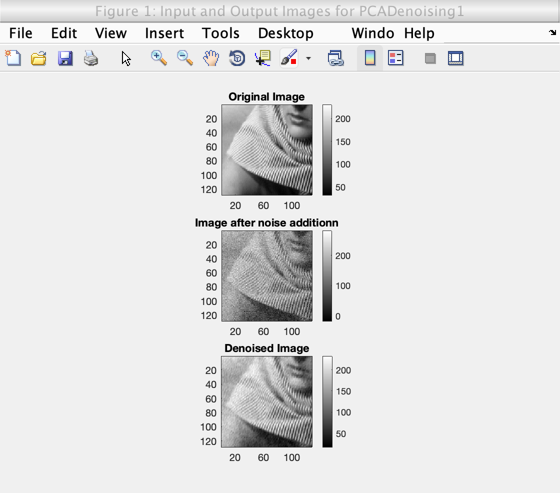
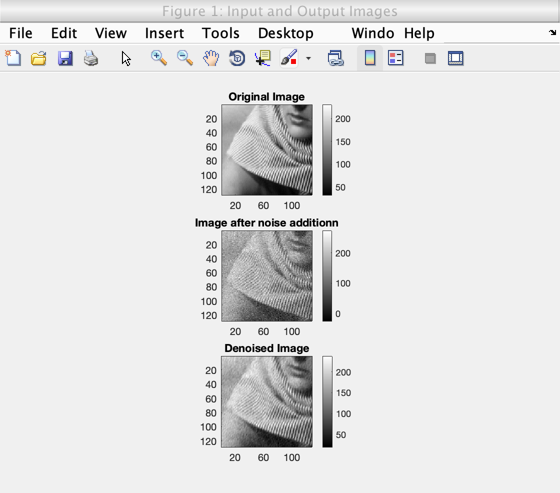
Q5 completed

diff --git a/assignmentFourier/5/Report/myMainScript.html b/assignmentFourier/5/Report/myMainScript.html
@@ -66,77 +66,183 @@ table td { padding:7px 5px; text-align:left; vertical-align:top; border:1px soli
 
 
 
-  </style></head><body><div class="content"><pre class="codeinput">tic;
+  </style></head><body><div class="content"><h2>Contents</h2><div><ul><li><a href="#2">Question 5a</a></li><li><a href="#3">Question 5b</a></li><li><a href="#4">Question 5c (Bilateral Filtering)</a></li><li><a href="#5">Question 5d (Poisson Noise)</a></li></ul></div><pre class="codeinput">tic;
 
 image_path = <span class="string">'../data/barbara256-part.png'</span>;
 image = double(imread(image_path));
-
-output_1 = myPCADenoising1(image);
+</pre><h2 id="2">Question 5a</h2><pre class="codeinput">output_1 = myPCADenoising1(image);
 
 rmse_value_1 = norm((image(:) - output_1(:) ))/norm(image(:));
 
-fprintf(<span class="string">'\n For myPCADenoising1: \n'</span>)
+fprintf(<span class="string">'For myPCADenoising1: \n'</span>)
 fprintf(<span class="string">'Final RMSE Value between the input and output image: %f \n'</span>, rmse_value_1);
 fprintf(<span class="string">'\n\n\n'</span>)
+figure(<span class="string">'name'</span>, <span class="string">'PCA Denoising output 1'</span>)
+imshow(output_1, []);
+title(<span class="string">'PCADenoising1'</span>);
+</pre><pre class="codeoutput">Denoising Process Completed! 
+For myPCADenoising1: 
+Final RMSE Value between the input and output image: 0.063499 
 
-output_2 = myPCADenoising2(image);
+
+
+</pre><img vspace="5" hspace="5" src="myMainScript_01.png" alt=""> <img vspace="5" hspace="5" src="myMainScript_02.png" alt=""> <h2 id="3">Question 5b</h2><pre class="codeinput">output_2 = myPCADenoising2(image);
 rmse_value_2 = norm((image(:) - output_2(:) ))/norm(image(:));
 
-fprintf(<span class="string">'\n For myPCADenoising2: \n'</span>)
+fprintf(<span class="string">'For myPCADenoising2: \n'</span>)
 fprintf(<span class="string">'Final RMSE Value between the input and output image: %f \n'</span>, rmse_value_2);
 fprintf(<span class="string">'\n\n\n'</span>)
 
-
-fprintf(<span class="string">'Displaying the final output separately as well \n'</span>)
-figure(<span class="string">'name'</span>, <span class="string">'PCADenoising1'</span>)
-imshow(output_1, []);
-figure(<span class="string">'name'</span>, <span class="string">'PCADenoising2'</span>)
+figure(<span class="string">'name'</span>, <span class="string">'PCA Denoising output 2'</span>)
 imshow(output_2, []);
+title(<span class="string">'PCADenoising2'</span>);
+</pre><pre class="codeoutput">For myPCADenoising2: 
+Final RMSE Value between the input and output image: 0.052056 
+
+
+
+</pre><img vspace="5" hspace="5" src="myMainScript_03.png" alt=""> <img vspace="5" hspace="5" src="myMainScript_04.png" alt=""> <h2 id="4">Question 5c (Bilateral Filtering)</h2><pre class="codeinput">window_size = 7;
+<span class="comment">%values for sigma_r and sigma_s used as tuned for assignment 2</span>
+sigma_r = 0.12;
+sigma_s = 1;
+[output_3, rmsd_bilateral] = myBilateralFiltering(image, sigma_r, sigma_s, window_size);
+fprintf(<span class="string">'Final RMSE Value between the input and output image: %f \n'</span>, rmsd_bilateral);
+fprintf(<span class="string">'\n\n'</span>)
+
+fprintf(<span class="string">'Comparison with the PCA-based approach: \n'</span>)
+fprintf(<span class="string">'1. Very poor image denoising with bilateral filtering as compared to both the variations of the PCA-based approach in parts (a) and (b) above. \n'</span>);
+fprintf(<span class="string">'2. PCA-based approach does a much better job of identifying the underlying pattern in the image by reducing the dimensionality of similar patches and,'</span>);
+fprintf(<span class="string">'\n getting rid of noise in the way.'</span>);
+fprintf(<span class="string">'\n\n\n'</span>)
+</pre><pre class="codeoutput">Final RMSE Value between the input and output image: 9.928141 
+
+
+Comparison with the PCA-based approach: 
+1. Very poor image denoising with bilateral filtering as compared to both the variations of the PCA-based approach in parts (a) and (b) above. 
+2. PCA-based approach does a much better job of identifying the underlying pattern in the image by reducing the dimensionality of similar patches and,
+ getting rid of noise in the way.
+
+
+</pre><img vspace="5" hspace="5" src="myMainScript_05.png" alt=""> <h2 id="5">Question 5d (Poisson Noise)</h2><pre class="codeinput">noisy_image = poissrnd(image);
+sqrt_noisy_image = sqrt(noisy_image);
+<span class="comment">%noise is approximately gaussian distributed for sqrt_noisy_image</span>
+<span class="comment">%variance = 1/4</span>
+denoised_sqrt_image = myPCADenoising(sqrt_noisy_image, 1/4);
+final_denoised_image = denoised_sqrt_image.^2;
+RMSE = norm((image(:) - final_denoised_image(:) ))/norm(image(:));
+resultDisplay(image, noisy_image, final_denoised_image);
+
+fprintf(<span class="string">'For poissrnd(image): \n'</span>)
+fprintf(<span class="string">'Final RMSE Value between the input and output image: %f \n'</span>, RMSE);
+fprintf(<span class="string">'\n\n'</span>)
+
+noisy_image2 = poissrnd(image/20);
+sqrt_noisy_image2 = sqrt(noisy_image2);
+<span class="comment">%noise is approximately gaussian distributed for sqrt_noisy_image</span>
+<span class="comment">%variance = 1/4</span>
+denoised_sqrt_image2 = myPCADenoising(sqrt_noisy_image2, 1/4);
+final_denoised_image2 = denoised_sqrt_image2.^2;
+RMSE2 = norm((image(:) - final_denoised_image2(:) ))/norm(image(:));
+resultDisplay(image, noisy_image2, final_denoised_image2);
+
+fprintf(<span class="string">'For poissrnd(image/20): \n'</span>)
+fprintf(<span class="string">'Final RMSE Value between the input and output image: %f \n'</span>, RMSE2);
+fprintf(<span class="string">'\n\n'</span>)
+
+fprintf(<span class="string">'Observation and Interpretation of Results: \n'</span>)
+fprintf(<span class="string">'For poissrnd(image/20), we have greater noise addition as compared to poissrnd(image). poissrnd(image/20) represents image acquisition with a lower exposure time. \n'</span>);
+fprintf(<span class="string">'RMSE2 &gt;&gt; RMSE1 because of poor reconstruction of the low exposure image. \n'</span>);
+fprintf(<span class="string">'\n\n'</span>)
 
 toc;
-</pre><pre class="codeoutput">Denoising Process Completed! 
-
- For myPCADenoising1: 
-Final RMSE Value between the input and output image: 0.063332 
+</pre><pre class="codeoutput">For poissrnd(image): 
+Final RMSE Value between the input and output image: 0.037291 
 
 
+For poissrnd(image/20): 
+Final RMSE Value between the input and output image: 0.951860 
 
 
- For myPCADenoising2: 
-Final RMSE Value between the input and output image: 0.051544 
+Observation and Interpretation of Results: 
+For poissrnd(image/20), we have greater noise addition as compared to poissrnd(image). poissrnd(image/20) represents image acquisition with a lower exposure time. 
+RMSE2 &gt;&gt; RMSE1 because of poor reconstruction of the low exposure image. 
 
 
-
-Displaying the final output separately as well 
-Elapsed time is 54.601487 seconds.
-</pre><img vspace="5" hspace="5" src="myMainScript_01.png" alt=""> <img vspace="5" hspace="5" src="myMainScript_02.png" alt=""> <img vspace="5" hspace="5" src="myMainScript_03.png" alt=""> <img vspace="5" hspace="5" src="myMainScript_04.png" alt=""> <p class="footer"><br><a href="https://www.mathworks.com/products/matlab/">Published with MATLAB&reg; R2018a</a><br></p></div><!--
+Elapsed time is 119.706217 seconds.
+</pre><img vspace="5" hspace="5" src="myMainScript_06.png" alt=""> <img vspace="5" hspace="5" src="myMainScript_07.png" alt=""> <p class="footer"><br><a href="https://www.mathworks.com/products/matlab/">Published with MATLAB&reg; R2018a</a><br></p></div><!--
 ##### SOURCE BEGIN #####
 tic;
 
 image_path = '../data/barbara256-part.png';
 image = double(imread(image_path));
-
+%% Question 5a
 output_1 = myPCADenoising1(image); 
 
 rmse_value_1 = norm((image(:) - output_1(:) ))/norm(image(:));
 
-fprintf('\n For myPCADenoising1: \n')
+fprintf('For myPCADenoising1: \n')
 fprintf('Final RMSE Value between the input and output image: %f \n', rmse_value_1);
 fprintf('\n\n\n')
-
+figure('name', 'PCA Denoising output 1')
+imshow(output_1, []);
+title('PCADenoising1');
+%% Question 5b
 output_2 = myPCADenoising2(image);
 rmse_value_2 = norm((image(:) - output_2(:) ))/norm(image(:));
 
-fprintf('\n For myPCADenoising2: \n')
+fprintf('For myPCADenoising2: \n')
 fprintf('Final RMSE Value between the input and output image: %f \n', rmse_value_2);
 fprintf('\n\n\n')
 
-
-fprintf('Displaying the final output separately as well \n')
-figure('name', 'PCADenoising1')
-imshow(output_1, []);
-figure('name', 'PCADenoising2')
+figure('name', 'PCA Denoising output 2')
 imshow(output_2, []);
+title('PCADenoising2');
+%% Question 5c (Bilateral Filtering)
+window_size = 7;
+%values for sigma_r and sigma_s used as tuned for assignment 2
+sigma_r = 0.12;
+sigma_s = 1;
+[output_3, rmsd_bilateral] = myBilateralFiltering(image, sigma_r, sigma_s, window_size);
+fprintf('Final RMSE Value between the input and output image: %f \n', rmsd_bilateral);
+fprintf('\n\n')
+
+fprintf('Comparison with the PCA-based approach: \n')
+fprintf('1. Very poor image denoising with bilateral filtering as compared to both the variations of the PCA-based approach in parts (a) and (b) above. \n');
+fprintf('2. PCA-based approach does a much better job of identifying the underlying pattern in the image by reducing the dimensionality of similar patches and,');
+fprintf('\n getting rid of noise in the way.');
+fprintf('\n\n\n')
+
+%% Question 5d (Poisson Noise)
+noisy_image = poissrnd(image);
+sqrt_noisy_image = sqrt(noisy_image); 
+%noise is approximately gaussian distributed for sqrt_noisy_image
+%variance = 1/4
+denoised_sqrt_image = myPCADenoising(sqrt_noisy_image, 1/4);
+final_denoised_image = denoised_sqrt_image.^2;
+RMSE = norm((image(:) - final_denoised_image(:) ))/norm(image(:));
+resultDisplay(image, noisy_image, final_denoised_image);
+
+fprintf('For poissrnd(image): \n')
+fprintf('Final RMSE Value between the input and output image: %f \n', RMSE);
+fprintf('\n\n')
+
+noisy_image2 = poissrnd(image/20);
+sqrt_noisy_image2 = sqrt(noisy_image2); 
+%noise is approximately gaussian distributed for sqrt_noisy_image
+%variance = 1/4
+denoised_sqrt_image2 = myPCADenoising(sqrt_noisy_image2, 1/4);
+final_denoised_image2 = denoised_sqrt_image2.^2;
+RMSE2 = norm((image(:) - final_denoised_image2(:) ))/norm(image(:));
+resultDisplay(image, noisy_image2, final_denoised_image2);
+
+fprintf('For poissrnd(image/20): \n')
+fprintf('Final RMSE Value between the input and output image: %f \n', RMSE2);
+fprintf('\n\n')
+
+fprintf('Observation and Interpretation of Results: \n')
+fprintf('For poissrnd(image/20), we have greater noise addition as compared to poissrnd(image). poissrnd(image/20) represents image acquisition with a lower exposure time. \n');
+fprintf('RMSE2 >> RMSE1 because of poor reconstruction of the low exposure image. \n');
+fprintf('\n\n')
 
 toc;
 ##### SOURCE END #####

diff --git a/assignmentFourier/5/code/myMainScript.m b/assignmentFourier/5/code/myMainScript.m
@@ -10,6 +10,9 @@ rmse_value_1 = norm((image(:) - output_1(:) ))/norm(image(:));
 fprintf('For myPCADenoising1: \n')
 fprintf('Final RMSE Value between the input and output image: %f \n', rmse_value_1);
 fprintf('\n\n\n')
+figure('name', 'PCA Denoising output 1')
+imshow(output_1, []);
+title('PCADenoising1');
 %% Question 5b
 output_2 = myPCADenoising2(image);
 rmse_value_2 = norm((image(:) - output_2(:) ))/norm(image(:));
@@ -18,6 +21,9 @@ fprintf('For myPCADenoising2: \n')
 fprintf('Final RMSE Value between the input and output image: %f \n', rmse_value_2);
 fprintf('\n\n\n')
 
+figure('name', 'PCA Denoising output 2')
+imshow(output_2, []);
+title('PCADenoising2');
 %% Question 5c (Bilateral Filtering)
 window_size = 7;
 %values for sigma_r and sigma_s used as tuned for assignment 2

diff --git a/assignmentFourier/5/code/resultDisplay.m b/assignmentFourier/5/code/resultDisplay.m
@@ -1,7 +1,7 @@
 function resultDisplay(originalImage, noisyImage, denoisedImage)
     myNumOfColors = 200;
     myColorScale = [ [0:1/(myNumOfColors-1):1]' , [0:1/(myNumOfColors-1):1]' , [0:1/(myNumOfColors-1):1]' ];
-    figure('name', 'Input and Output Images for PCADenoising2')
+    figure('name', 'Input and Output Images')
 
     subplot(3,1,1)
     imagesc(originalImage);

diff --git a/README.md b/README.md
@@ -30,5 +30,5 @@ Digital Image Processing
 - [x] Q2
 - [ ] Q3
 - [ ] Q4
-- [ ] Q5
+- [x] Q5
 - [ ] Q6
